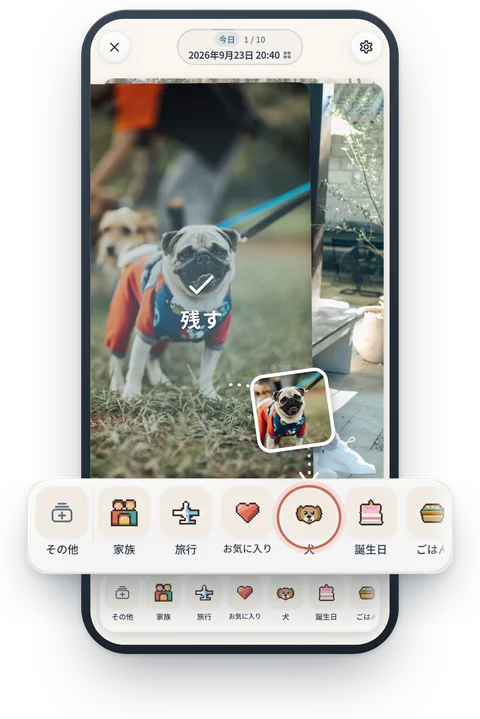
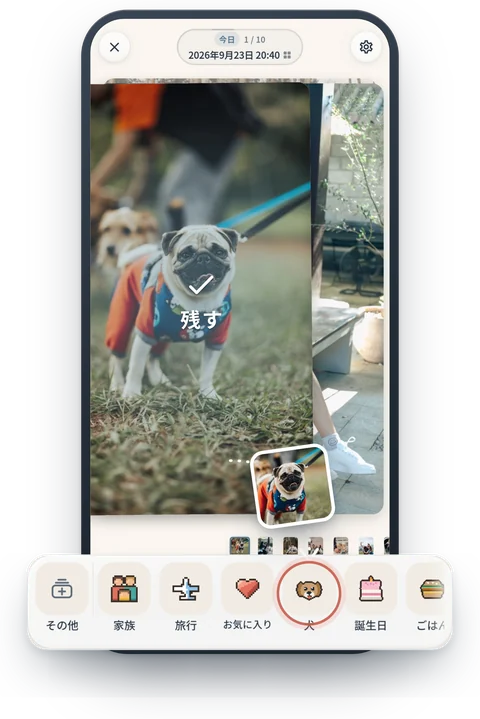
fix(首頁): 整理那張不再出現兩條相簿軌；「滑一下」的說明改講點相簿分類
官網模式手機整支完整，App 自己那條相簿軌露在特寫下面像重複了兩條；
官網模式把特寫整組下移，正好蓋住原本那條（商店畫板不受影響）。
三句話的第一句後半改成講「點一下相簿就分類收好」（五語）。

Changed region(s): [[0.0312, 0.4896, 0.9688, 0.9485]]

diff --git a/index.html b/index.html
@@ -229,11 +229,11 @@
           <span lang="en" class="qs-t">One swipe, one photo organised</span>
           <span lang="ja" class="qs-t">スワイプ一回で、一枚が片づく</span>
           <span lang="ko" class="qs-t">한 번 밀면 한 장이 정리돼요</span>
-          <span lang="zh-Hant" class="qs-d">左滑留下、下滑進待刪除。你確認之前一張都不會真的刪。</span>
-          <span lang="zh-Hans" class="qs-d">左滑留下、下滑进待删除。你确认之前，一张都不会真的删。</span>
-          <span lang="en" class="qs-d">Left to keep, down to discard. Nothing is deleted until you say so.</span>
-          <span lang="ja" class="qs-d">左で残す、下で削除予定へ。確認するまで、一枚も本当に削除されることはありません。</span>
-          <span lang="ko" class="qs-d">왼쪽은 남기기, 아래는 삭제 예정. 확인하기 전까지는 한 장도 실제로 지워지지 않아요.</span>
+          <span lang="zh-Hant" class="qs-d">左滑留下、下滑進待刪除，點一下相簿就分類收好。</span>
+          <span lang="zh-Hans" class="qs-d">左滑留下、下滑进待删除，点一下相册就分类收好。</span>
+          <span lang="en" class="qs-d">Left to keep, down to discard. Tap an album to file it away.</span>
+          <span lang="ja" class="qs-d">左で残す、下で削除予定へ。アルバムをタップすれば、そのまま仕分けできます。</span>
+          <span lang="ko" class="qs-d">왼쪽은 남기기, 아래는 삭제 예정. 앨범을 누르면 바로 분류돼요.</span>
         </li>
         <li>
           <span class="qs-n">02</span>

diff --git a/press/press.css b/press/press.css
@@ -385,3 +385,12 @@ html.web .brandline { display: none; }
 html.web .stage { top: 40px !important; bottom: auto !important; }
 html.web .phone-wrap,
 html.web .stage .phone-fit { margin-top: 0 !important; }
+
+/* 整理板：商店畫板的手機下緣出血，App 自己那條相簿軌在畫布外；官網模式手機整支完整，
+   那條原本的相簿軌就露在特寫下面，看起來像重複了兩條（2026-09-30 使用者回報）。
+   官網模式把「相簿軌特寫＋點擊圈＋飛行箭頭＋飛出的照片」整組往下移，
+   讓特寫的中心正好蓋在原本那條相簿軌的中心上（特寫 500×112 大於原本的 330×74，整條蓋住）。
+   位移量：原相簿軌在素材 review_hd.jpg 的 y 1992–2220（高 228，同 review_rail_hd.png），
+   螢幕從 10.8 起、每 px ×0.325 → 中心 10.8 + 2106×0.325 = 695.25；
+   特寫高 500×228/1016 = 112.2 → 頂端應在 639.15，原本 550 → 往下 89.15。 */
+html.web .phone-wrap:has(> .rail-zoom) > .ov { translate: 0 89.15px; }
